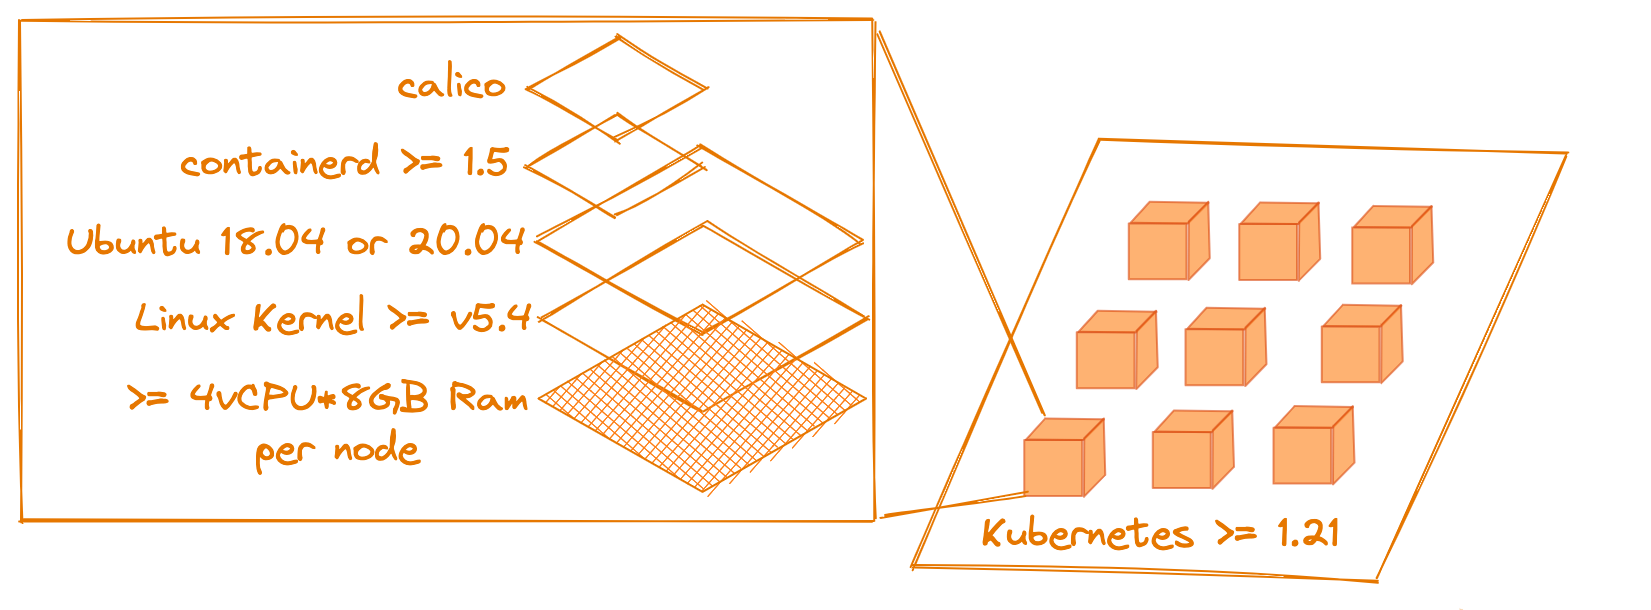
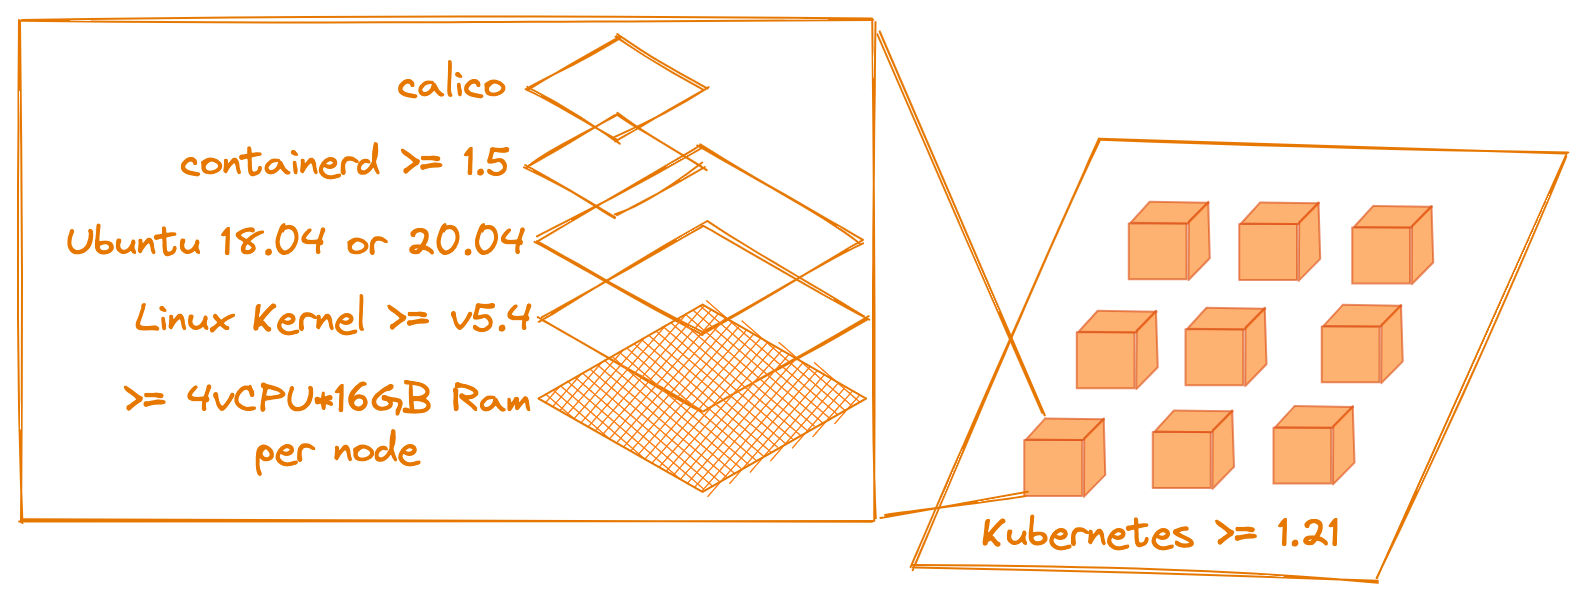
Change min node memory to 16gb

diff --git a/gitpod/docs/self-hosted/latest/cluster-set-up/index.md b/gitpod/docs/self-hosted/latest/cluster-set-up/index.md
@@ -73,4 +73,4 @@ These are the components expected on each node:
 - Either Ubuntu 18.04 with ≥ v5.4 kernel or Ubuntu 20.04 with ≥ v5.4 kernel
 - Calico for the networking overlay and network policy
 - Containerd ≥ 1.5
-- At least 4 vCPU and 8GB of RAM
+- At least 4 vCPU and 16GB of RAM
